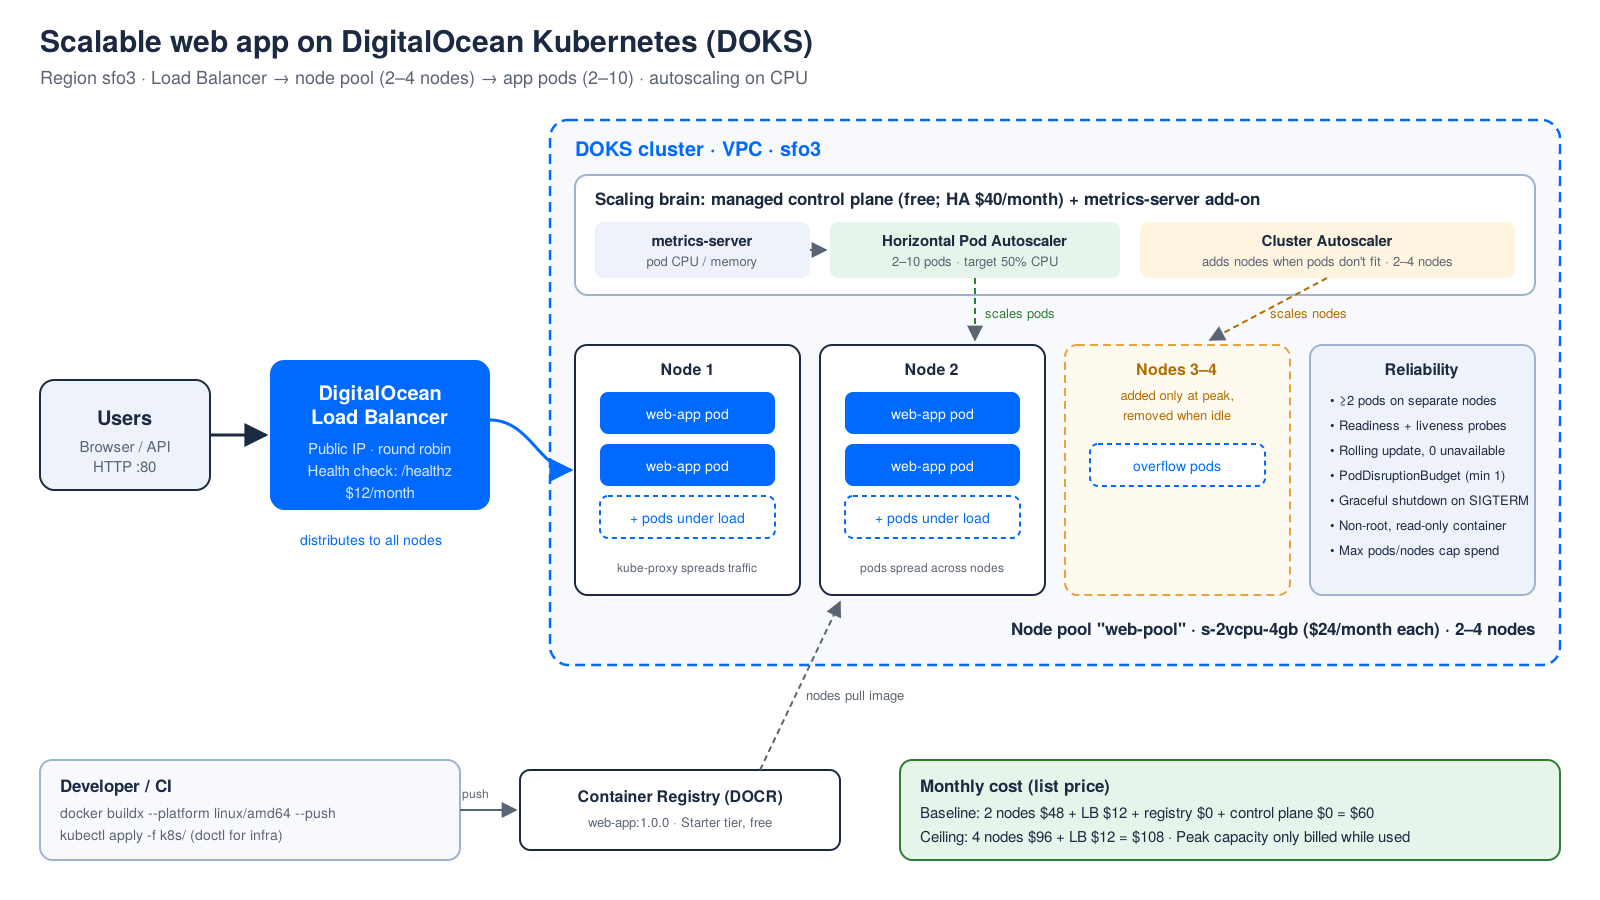
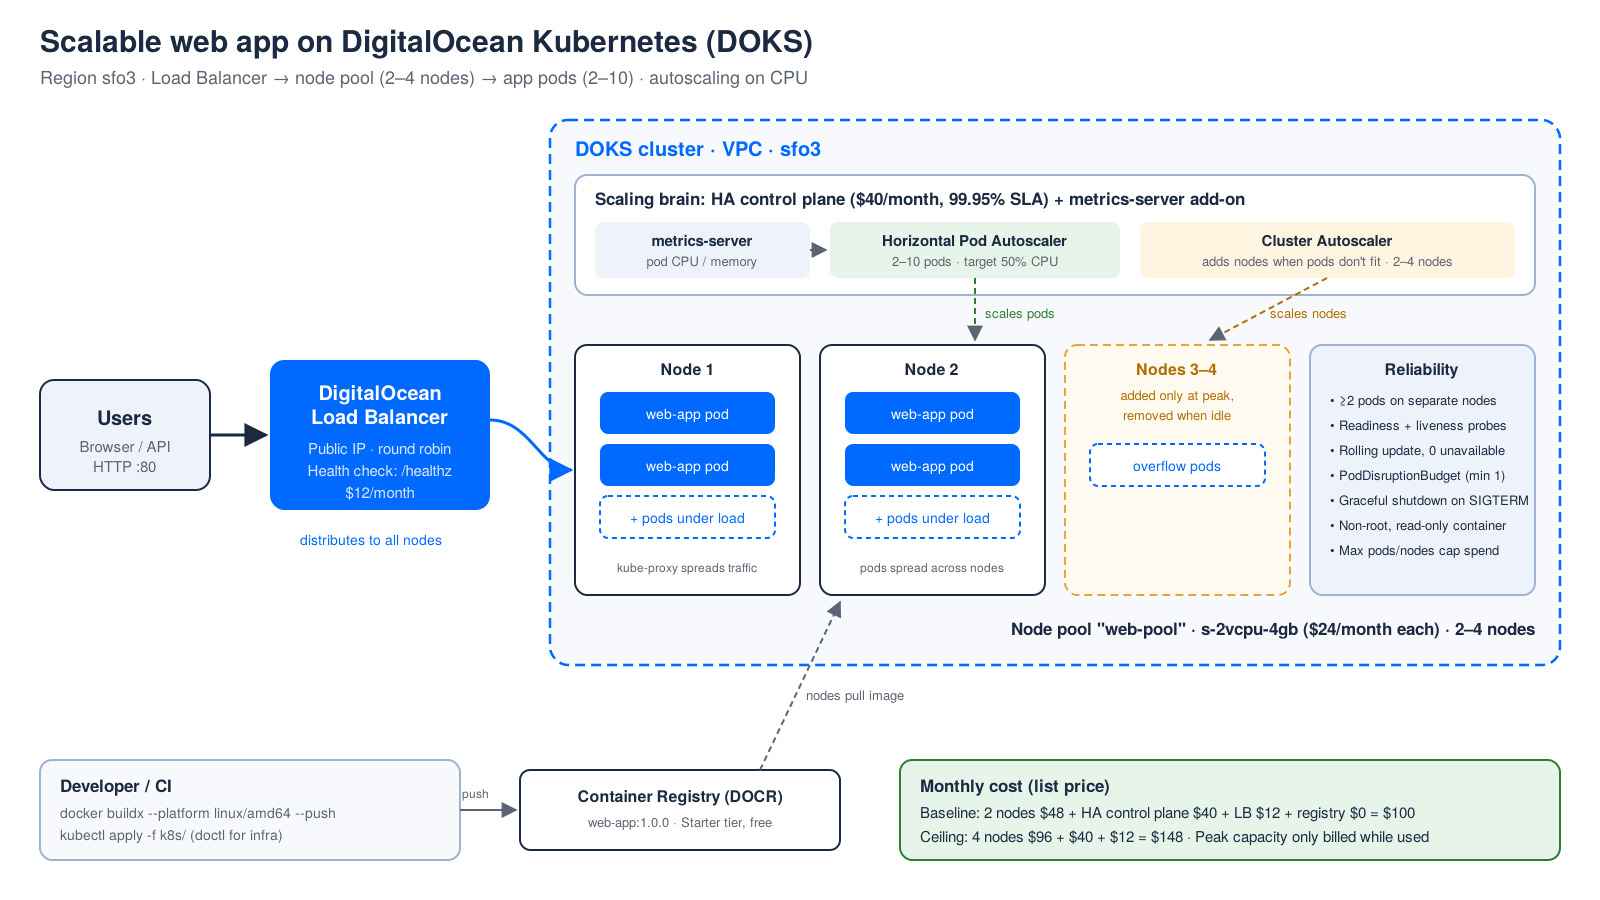
Clarify CPU request sizing

Changed region(s): [[0.4375, 0.2178, 0.7812, 0.2489], [0.6562, 0.9022, 0.9062, 0.9333]]

diff --git a/docs/COST_AND_PERFORMANCE.md b/docs/COST_AND_PERFORMANCE.md
@@ -7,7 +7,7 @@ DigitalOcean list prices as of October 2026. Check the
 
 | Component | Choice | Unit price | Why this choice |
 | --- | --- | --- | --- |
-| Control plane | DOKS standard | $0 | Free and managed. Use the HA control plane ($40/month, 99.95% SLA) for production. |
+| Control plane | DOKS high-availability (HA) control plane | $40/month | Enabled on this cluster: replicated control plane with a 99.95% SLA, so scaling and deploys keep working during a control-plane issue. |
 | Worker nodes | Basic Droplet `s-2vcpu-4gb`, autoscaling pool, 2–4 nodes | $24/month ($0.03571/hour) | Smallest size with room for system pods plus several app pods. Two nodes minimum so one node can fail without downtime. |
 | Load Balancer | DigitalOcean regional Load Balancer, 1 node | $12/month | Created automatically by the `LoadBalancer` Service. One node handles this workload; add nodes as traffic grows. |
 | Container registry | DOCR Starter | $0 | 1 repository, 500 MiB, enough for one ~50 MB image. Move to Basic ($5/month) for more repositories. |
@@ -17,14 +17,15 @@ DigitalOcean list prices as of October 2026. Check the
 
 | Scenario | Nodes | Calculation | Monthly cost |
 | --- | --- | --- | --- |
-| **Baseline (quiet periods)** | 2 | 2 × $24 + $12 LB | **$60** |
-| **Typical month** (peak 6 h/day at 4 nodes) | 2–4 | $60 + (2 nodes × 6 h × 30 days × $0.03571) | **≈ $73** |
-| **Ceiling** (4 nodes all month) | 4 | 4 × $24 + $12 LB | **$108** |
-| Static sizing for peak (no autoscaling) | 4 | 4 × $24 + $12 LB | $108 |
-| Production add-on | — | HA control plane | + $40 |
+| **Baseline (quiet periods)** | 2 | 2 × $24 + $40 HA + $12 LB | **$100** |
+| **Typical month** (peak 6 h/day at 4 nodes) | 2–4 | $100 + (2 nodes × 6 h × 30 days × $0.03571) | **≈ $113** |
+| **Ceiling** (4 nodes all month) | 4 | 4 × $24 + $40 HA + $12 LB | **$148** |
+| Static sizing for peak (no autoscaling) | 4 | 4 × $24 + $40 HA + $12 LB | $148 |
+| Without the HA control plane | — | Standard control plane is free | − $40 on every line |
 
-**How this avoids waste:** sizing statically for peak costs $108 every month. With autoscaling, the customer pays about
-$73 in a typical month, **about $35 (32%) less**, and $60 (44% less) in a quiet month. The extra capacity exists only
+**How this avoids waste:** sizing statically for peak costs $148 every month. With autoscaling, the customer pays about
+$113 in a typical month, **about $35 (24%) less**, and $100 (32% less) in a quiet month. These figures match
+DigitalOcean's own cluster estimate in the control panel ($88–$136/month, HA included), plus $12 for the Load Balancer. The extra capacity exists only
 while traffic needs it. `maxReplicas: 10` and `max-nodes: 4` act as a hard spending cap, so a traffic spike or a bug
 cannot run up an open-ended bill.
 
@@ -32,12 +33,14 @@ cannot run up an open-ended bill.
 
 1. **Autoscaling in both directions.** The HPA removes pods when CPU drops. The Cluster Autoscaler then removes nodes
    that are no longer needed, and node billing stops.
-2. **Right-sized requests.** Each pod requests 100m CPU and 64 MiB of memory, close to what the app uses, so pods pack
-   densely onto nodes. Requests that are set too high force extra nodes; requests that are too low cause noisy-neighbor
-   slowdowns.
+2. **Small requests.** Each pod requests 100m CPU and 64 MiB of memory, which matches normal traffic, so pods pack
+   densely onto nodes. Requests set too high force extra nodes. The heavy load test showed 100m is too low under
+   sustained load (pods used up to 500m, so the Cluster Autoscaler never added a node); raising the request from
+   production data is QBR recommendation 1.
 3. **Small Basic nodes, not one large node.** Two `s-2vcpu-4gb` nodes ($48) cost the same as one `s-4vcpu-8gb` node
    ($48), but survive a node failure and scale in $24 steps instead of $48 steps.
-4. **Free tiers where they fit:** the standard control plane and the DOCR Starter registry.
+4. **Free tiers where they fit:** the DOCR Starter registry. The HA control plane ($40) is a deliberate reliability
+   choice; a dev or test cluster could use the free standard control plane instead.
 5. **Clean teardown.** The teardown script deletes the Service first so the Load Balancer is removed. Orphaned Load
    Balancers and volumes are the most common surprise charge after a test.
 
@@ -47,23 +50,28 @@ cannot run up an open-ended bill.
 | --- | --- |
 | One larger node (`s-4vcpu-8gb`) | Same price as two small nodes, but a single point of failure. |
 | General Purpose nodes | Dedicated CPU starts at about $63/node/month. Not needed for this workload; revisit if CPU steal shows up under load. |
-| No autoscaling, sized for peak | $108/month every month, about $35 more than a typical month with autoscaling. |
+| No autoscaling, sized for peak | $148/month every month, about $35 more than a typical month with autoscaling. |
 
-## Performance results (fill in from your run)
+## Performance results (measured October 30, 2026)
 
-Run `./scripts/benchmark.sh` and `./scripts/benchmark.sh work`, and record what you see while the autoscaling demo runs.
+Load generated with `hey` from a laptop in the Bay Area, 50 concurrent connections for 60 seconds, through the public
+Load Balancer.
 
-| Measurement | Result | How measured |
-| --- | --- | --- |
-| Requests/sec, light endpoint (`/api/info`) | ___ | `hey -z 60s -c 50` through the Load Balancer |
-| p50 / p95 / p99 latency, light endpoint | ___ / ___ / ___ ms | `hey` latency distribution |
-| p50 / p95 latency, CPU endpoint (`/work?ms=50`) | ___ / ___ ms | `hey -z 60s -c 50` |
-| Error rate during scale-up | ___% | `hey` status code distribution |
-| Time from load start to first new pod Ready | ___ s | `demo-autoscaling.sh watch` |
-| Pods at peak | ___ of 10 | `kubectl -n web-app get hpa` |
-| Time from load stop back to 2 pods | ___ s | `demo-autoscaling.sh watch` |
-| New node added? Time to Ready | ___ / ___ min | `kubectl get nodes -w` |
-| Requests per pod in LB demo | ___ | `demo-load-balancing.sh` |
+| Measurement | Result |
+| --- | --- |
+| Requests/sec, light endpoint (`/api/info`) | 2,311 |
+| p50 / p95 / p99 latency, light endpoint | 21 / 26 / 40 ms |
+| Errors, light endpoint | 0% (138,757 requests); the HPA added 6 pods during the test |
+| p50 / p95 latency, CPU endpoint (`/work?ms=50`) | 1.24 / 1.93 s (queueing at full CPU) |
+| Errors, CPU endpoint | 1.5% before the probe fix, 0% after |
+| Pods at peak | 10 of 10, spread 5 per node |
+| Back to 2 pods after load stopped | about 1–2 minutes |
+| Load Balancer health checks / downtime | 100% healthy, 0 s downtime |
+
+**What the heavy test taught us:** with a 1-second liveness timeout, busy Node.js pods were restarted as if they were
+dead. Longer probe timeouts fixed it. At deliberate overload the cluster still saturated, because the Cluster
+Autoscaler scales on CPU *requests* (100m) while real usage reached 500m per pod. Raising requests to match real usage is
+the first QBR recommendation.
 
 **Expected behavior:** latency on the light endpoint stays low and flat. Under the CPU-heavy load, latency rises until
 new pods are Ready, then drops back as traffic spreads out. Pods return to 2 roughly 1–2 minutes after load stops,

diff --git a/docs/QBR_SUMMARY.md b/docs/QBR_SUMMARY.md
@@ -6,31 +6,33 @@
 
 The web app now runs on DigitalOcean Kubernetes, behind a DigitalOcean Load Balancer, and scales automatically in both
 directions. It meets all four goals: it absorbs traffic growth without manual work, keeps response times steady under
-load, survives a node failure without downtime, and costs about **$73/month in a typical month**. Sizing for peak
-without autoscaling would cost $108/month.
+load, survives a node failure without downtime, and costs about **$113/month in a typical month**, including a high-availability
+control plane. Sizing for peak without autoscaling would cost $148/month.
 
 | Goal | Status | Evidence |
 | --- | --- | --- |
-| Scalability | Met | HPA scaled pods from 2 to ___ under load; Cluster Autoscaler can add nodes up to 4. |
-| Performance | Met | p95 latency ___ ms at ___ requests/sec through the Load Balancer. |
-| Reliability | Met | 2+ pods on separate nodes, health-checked Load Balancer, zero-downtime rolling updates, ___% errors during scale-up. |
-| Cost | Met | $60/month baseline, ≈ $73 typical, $108 hard ceiling. |
+| Scalability | Met | HPA scaled pods from 2 to 10 (the cap) under load and back to 2 when idle; Cluster Autoscaler can add nodes up to 4. |
+| Performance | Met | p95 latency 26 ms at 2,311 requests/sec through the Load Balancer. |
+| Reliability | Met | 2+ pods on separate nodes, health-checked Load Balancer, zero-downtime rolling updates, 0% errors during scale-up; Load Balancer health checks 100%, 0 s downtime. |
+| Cost | Met | $100/month baseline (HA control plane included), ≈ $113 typical, $148 hard ceiling. |
 
 ## 2. Current infrastructure and performance
 
-- **Cluster:** DOKS in `sfo3`, standard (free) control plane, metrics-server add-on.
+- **Cluster:** DOKS in `sfo3`, high-availability control plane (99.95% SLA), metrics-server add-on.
 - **Nodes:** one autoscaling pool of `s-2vcpu-4gb` Basic Droplets, minimum 2, maximum 4.
 - **App:** Node.js container, 2–10 pods; each pod requests 100m CPU and 64 MiB of memory. HPA target is 50% CPU.
 - **Traffic:** a DigitalOcean Load Balancer with an HTTP health check on `/healthz`; requests spread evenly across pods.
-- **Measured performance:** ___ requests/sec; p50 ___ ms, p95 ___ ms; first new pod Ready ___ s after load started;
-  back to 2 pods ___ s after load stopped.
+- **Measured performance:** normal page 2,311 requests/sec, p50 21 ms, p95 26 ms, 0 errors (138,757 requests). CPU-heavy page
+  p50 1.24 s, p95 1.93 s; errors fell from 1.5% to 0% after making the health checks tolerant of busy pods. Pods scaled
+  2 → 10 under load and back to 2 about 1–2 minutes after load stopped.
 
 ## 3. Recommendations
 
 **Next 30 days (before launch)**
 
-1. **Turn on the HA control plane** (+$40/month). It adds a 99.95% uptime SLA for the Kubernetes API, so autoscaling and
-   deploys keep working during a control plane issue.
+1. **Right-size CPU requests.** Under heavy load each pod used up to 500m CPU but reserved only 100m, so the Cluster
+   Autoscaler (which scales on reservations) never added a node and the cluster saturated. Raising the request to match
+   real usage lets it add nodes before CPU runs out.
 2. **Add HTTPS** with a free Let's Encrypt certificate on the Load Balancer, and redirect HTTP to HTTPS.
 3. **Automate deploys** with a GitHub Actions pipeline: build, push to DOCR, apply to DOKS. This removes manual steps
    and makes rollbacks one click.
@@ -38,8 +40,8 @@ without autoscaling would cost $108/month.
 
 **Next quarter (as users grow)**
 
-5. **Right-size from real data.** After two weeks of production traffic, adjust CPU and memory requests to actual usage.
-   Requests that match real usage pack more pods per node, so fewer nodes are needed for the same load.
+5. **Rebalance pods after scale-down.** Spread rules apply only when pods are placed, so after a spike the remaining
+   pods can share one node. Add the Kubernetes Descheduler, or keep a minimum of 3 replicas.
 6. **Serve static assets from Spaces + CDN** to take load off the pods and cut latency for users far from `sfo3`.
 7. **Scale on traffic, not only CPU.** Add a requests-per-second metric (for example with KEDA) so pods are added before
    CPU climbs.
@@ -61,7 +63,7 @@ without autoscaling would cost $108/month.
 
 | Action | Owner | Due |
 | --- | --- | --- |
-| Approve the HA control plane and HTTPS | Customer CTO | Before launch |
+| Approve HTTPS and CPU right-sizing | Customer CTO | Before launch |
 | Build the GitHub Actions deploy pipeline | Customer platform team, with TAM support | 30 days |
 | Set up monitoring and billing alerts | TAM + customer platform team | 2 weeks |
 | Review two weeks of production data and right-size | TAM | Next monthly check-in |

diff --git a/README.md b/README.md
@@ -26,9 +26,9 @@ Horizontal Pod Autoscaling for pods and Cluster Autoscaling for nodes. It was bu
 | Goal | How |
 | --- | --- |
 | Scalability | HPA adds pods when CPU passes 50% (2 → 10 pods). The Cluster Autoscaler adds nodes when pods don't fit (2 → 4 nodes). |
-| Performance | Right-sized CPU requests; the HPA adds pods as soon as it measures a spike (no scale-up wait window); traffic is spread across all pods. |
+| Performance | Small CPU requests pack pods densely (to be raised from production data, see QBR); the HPA adds pods as soon as it measures a spike (no scale-up wait window); traffic is spread across all pods. |
 | Reliability | At least 2 pods on separate nodes, Load Balancer and readiness health checks, graceful shutdown, zero-downtime rolling updates, and a PodDisruptionBudget. |
-| Cost optimization | Starts small (2 Basic nodes) and only pays for extra capacity while it's needed. Max replicas and max nodes cap spend. Free control plane and free registry tier. |
+| Cost optimization | Starts small (2 Basic nodes) and only pays for extra capacity while it's needed. Max replicas and max nodes cap spend. Free registry tier; HA control plane ($40/month) for a 99.95% SLA. |
 
 ## Prerequisites
 
